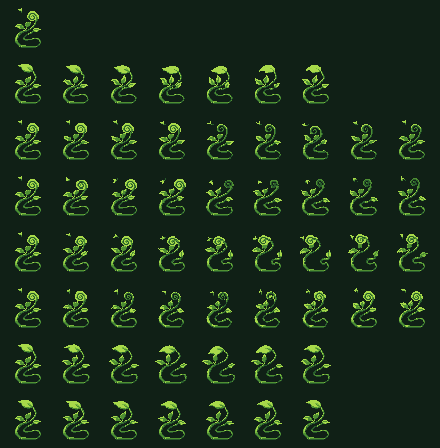
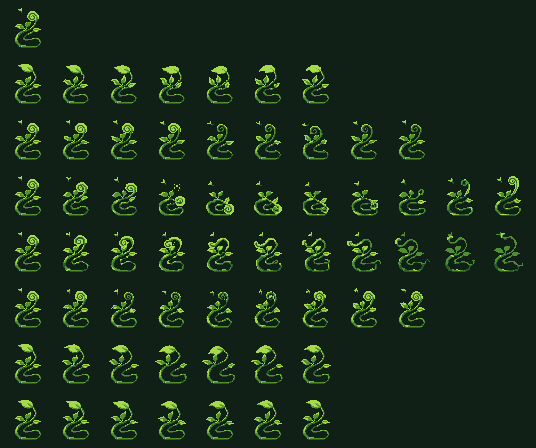
CRAWL sejati terpasang: kanan & kiri v2 sesuai OLR
- CRAWL_RIGHT: ujung menggulung TURUN ke tanah, tubuh merendah S->C
  (reach-pull), memanjang lagi, mencari lagi - siklus OLR s8 utuh
- CRAWL_LEFT v1 GAGAL inspeksi s29 (tengah siklus masih pose tegak
  menggulung kanan) -> reroll dengan tuntutan tip-rendah-menunjuk-kiri;
  v2 lolos: frame tengah konsisten rendah & kiri
- Frame digenerate DENGAN displacement (s9) lalu di-re-center per frame
  oleh gen_tendril.gd - gelombang tubuh utuh, strip stabil untuk Godot
- CLAUDE.md: MDS & OLR masuk daftar kanon; pelajaran mahal dicatat -
  hasil MCP digusur cepat, unduh SEGERA, jangan probe HEAD

diff --git a/CLAUDE.md b/CLAUDE.md
@@ -17,7 +17,16 @@ merambat menjadikan sebuah gedung sebagai tubuhnya.
    Sprite kanon di `aset/konsep_tendril/` (master + 5 strip animasi,
    48px/frame, palet kanon; idle/detach/attach masih memakai ujung-daun
    master pra-refine — sengaja, menunggu putusan playtest §21).
-4. **`docs/CDD-TENDRIL-KARAKTER.md`** — desain karakter (46 bagian) +
+4. **`docs/MDS-TENDRIL-GERAK.md`** — spec gerak & arah: ujung memimpin,
+   kiri/kanan bukan flip (fallback flip hanya prototype), belok organik.
+5. **`docs/OLR-TENDRIL-LOKOMOSI.md`** — REVISI lokomotasi yang MENIMPA
+   istilah MDS: bahasa resmi = **CRAWL** (kata "walking" TERLARANG di
+   prompt), Growing Tip Downward Rule, traveling body wave, Spatial
+   Displacement Rule (frame digenerate BERPINDAH lalu di-re-center oleh
+   gen_tendril.gd), turn dibuat ulang SETELAH crawl lolos playtest,
+   jump/fall/land menunggu. DOD: "TENDRIL sedang merayap", bukan
+   "menggulung".
+6. **`docs/CDD-TENDRIL-KARAKTER.md`** — desain karakter (46 bagian) +
    papan acuan visualnya. Kanon untuk SEGALA hal tentang sang Ujung
    Tumbuh: anatomi (ujung bercahaya sensitif cahaya, daun muda kamuflase,
    sulur fleksibel, node pertumbuhan), palet hijau kanon (#102016,
@@ -83,6 +92,12 @@ Langganan Tier 1: 2000 generasi/bulan (terpakai ±55). Kunci di `.mcp.json`
 pernah final tanpa kurasi.
 
 Pengetahuan operasional yang sudah dibayar mahal:
+
+- **UNDUH HASIL SEGERA setelah job selesai** — hasil MCP bisa digusur
+  server jauh sebelum jendela "8 jam" resminya (crawl 13 Agu lenyap
+  dalam hitungan menit; regenerasi untung murah karena seed dicatat).
+  Endpoint download TIDAK mendukung HEAD — cek kesiapan lewat get_image,
+  bukan probe HTTP.
 
 - Kanvas minimal 32×32 total; strip tipis digenerate 2× lalu diperkecil
   nearest. 422 validasi TIDAK memakan kuota.
